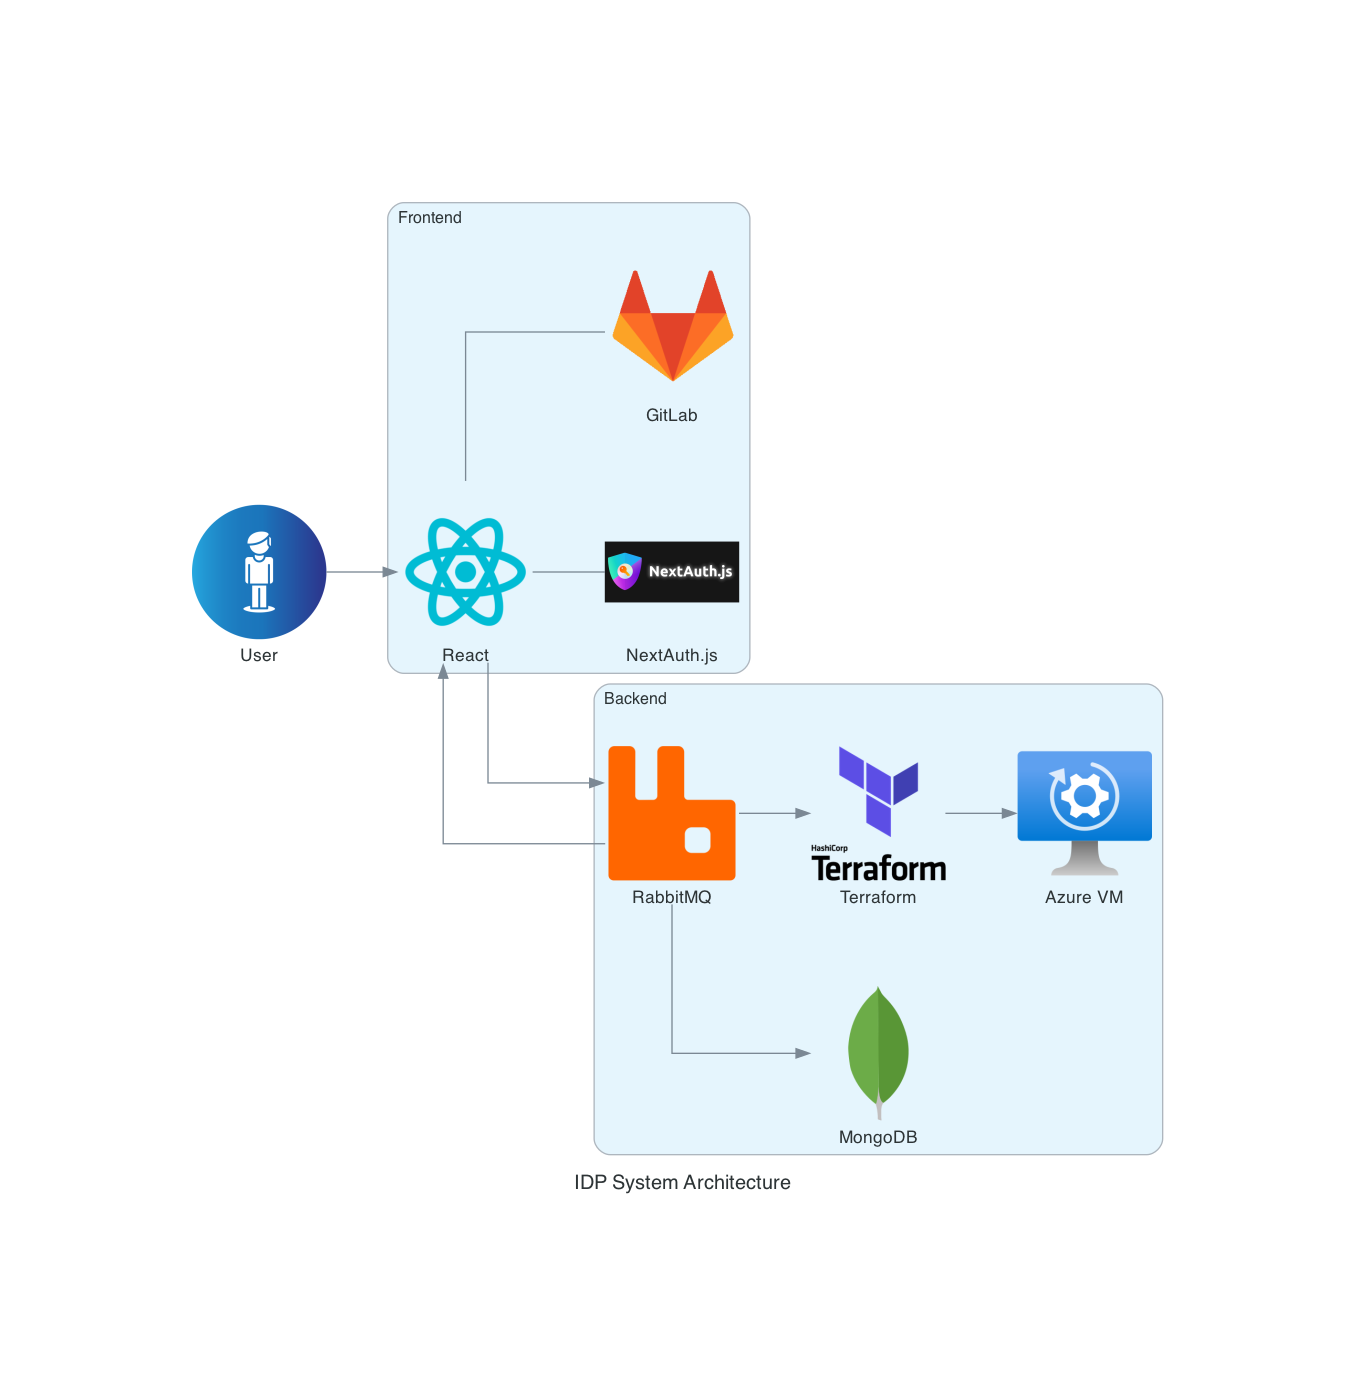
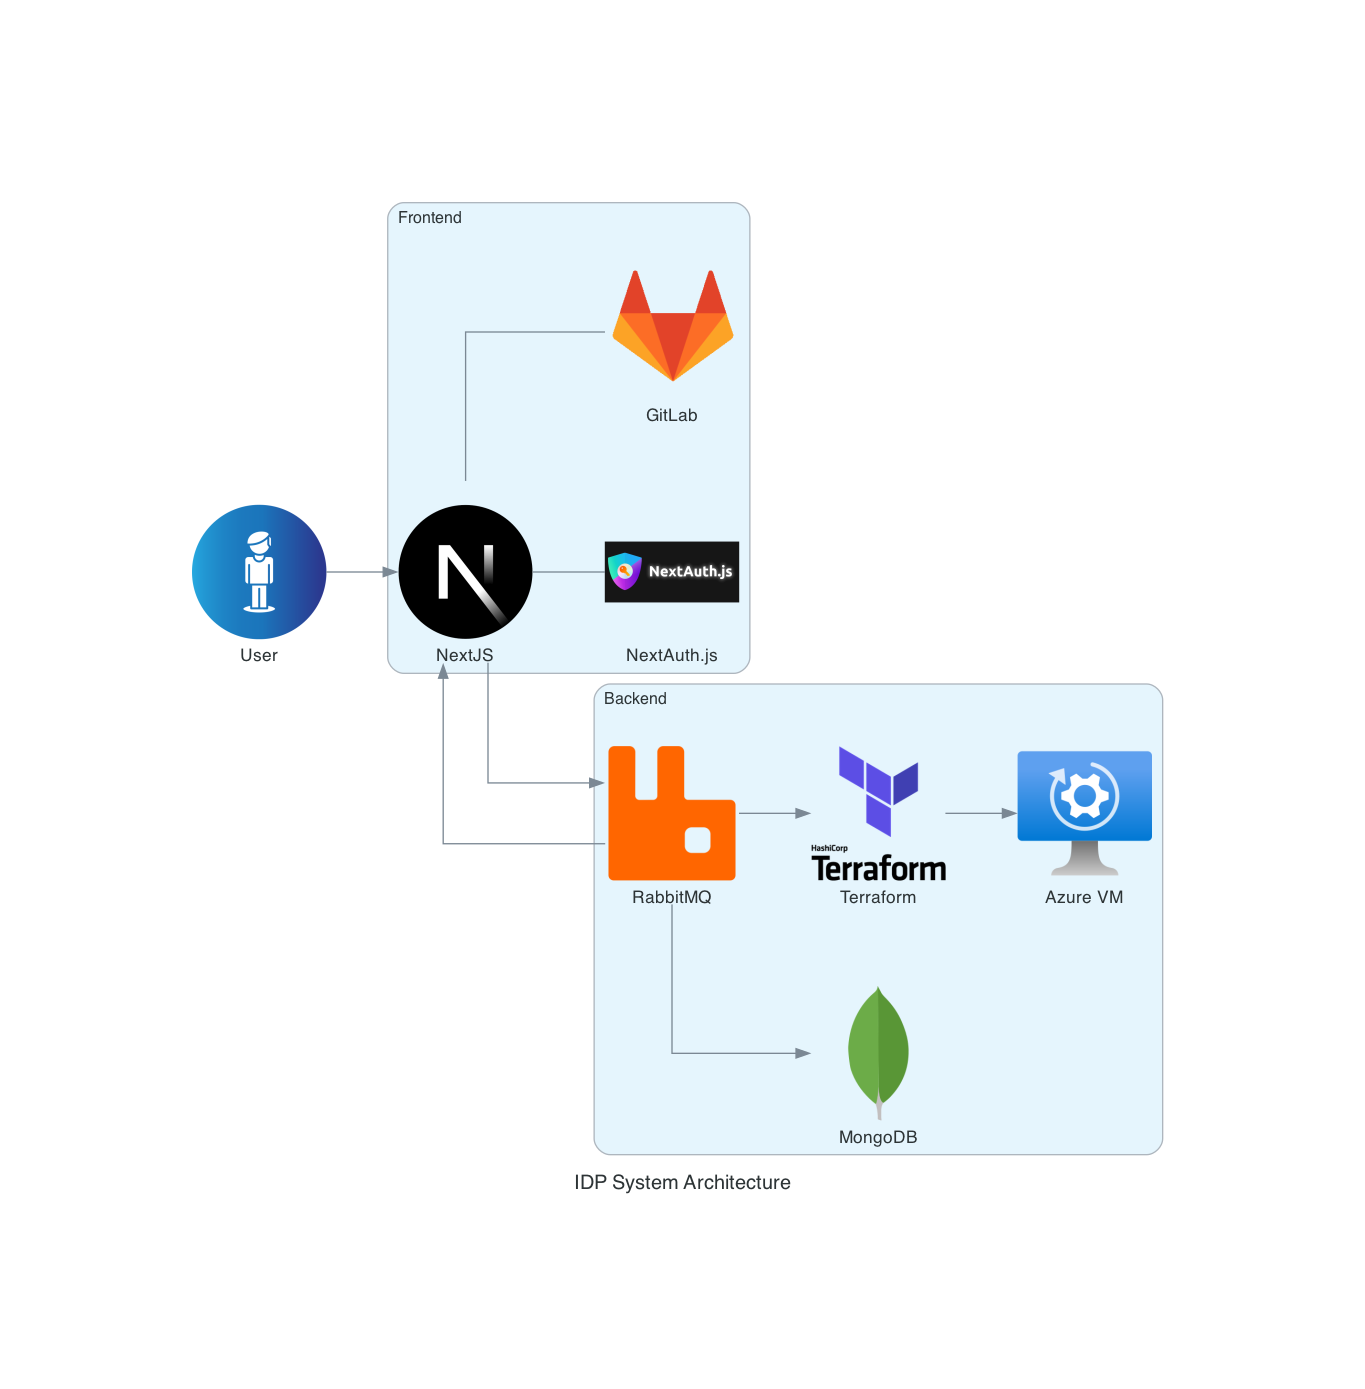
fix: description and code

Changed region(s): [[0.2769, 0.3405, 0.4, 0.4953]]

diff --git a/system-architecture.py b/system-architecture.py
@@ -1,6 +1,5 @@
 from diagrams import Cluster, Diagram
 from diagrams.custom import Custom
-from diagrams.programming.framework import React
 from diagrams.onprem.vcs import Gitlab
 from diagrams.onprem.database import MongoDB
 from diagrams.onprem.queue import RabbitMQ
@@ -12,7 +11,7 @@ with Diagram("IDP System Architecture", show=False):
     user = Custom("User", "./user.png")
 
     with Cluster("Frontend"):
-        frontend = React("React")
+        frontend = Custom("NextJS", "./nextjs.png")
         authen = Custom("NextAuth.js", "./nextauthjs.png")
         manageUser = Gitlab("GitLab")
         frontend - authen

diff --git a/README.md b/README.md
@@ -12,7 +12,7 @@ This repository contains the implementation of the system architecture for an Id
 
 ### Frontend Cluster
 
-- **React**: The main user interface for the application, facilitating user interactions.
+- **NextJS**: The main user interface for the application, facilitating user interactions.
 - **NextAuth.js**: Provides authentication services, managing user sessions and security.
 - **GitLab**: Used for user management, version control, and collaboration.
 
@@ -41,14 +41,15 @@ To set up the project locally, follow these steps:
      brew install graphviz
      ```
    - For Windows users with Chocolatey installed, run:
+
      ```bash
      choco install graphviz
      ```
 
    - Install Diagrams
-      ```bash
-      pip install diagram
-      ```
+     ```bash
+     pip install diagram
+     ```
 
 2. **Clone the repository**:
 

diff --git a/Description.md b/Description.md
@@ -6,7 +6,7 @@ The user interacts with the system, initiating communication with the **Frontend
 
 ## Frontend Cluster
 
-- **React**: Serves as the main user interface for the application, connecting directly to **NextAuth.js** for authentication and **GitLab** for user management.
+- **NextJS**: Serves as the main user interface for the application, connecting directly to **NextAuth.js** for authentication and **GitLab** for user management.
 
 ## Backend Cluster
 
